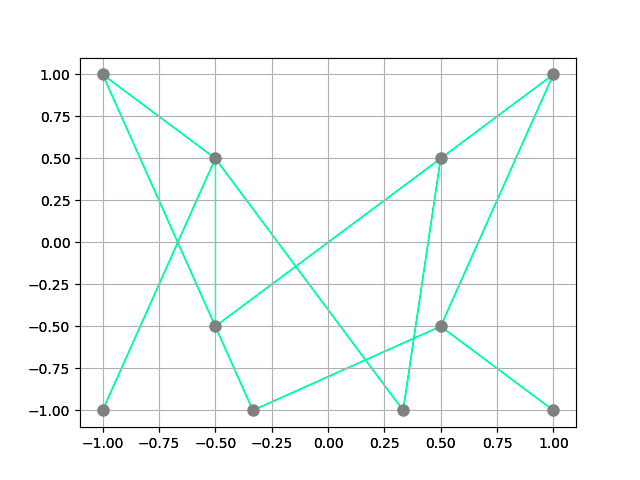
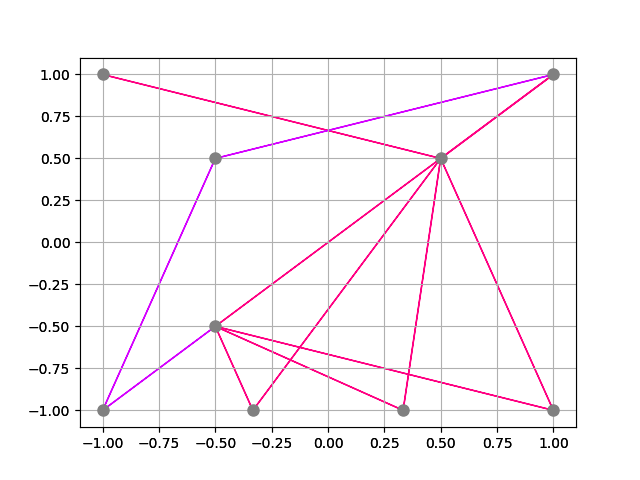
Add TODO for neuromodulation

diff --git a/pureples/des_hyperneat/des_hyperneat.py b/pureples/des_hyperneat/des_hyperneat.py
@@ -103,26 +103,29 @@ class DESNetwork:
         """
         Merge connections generated by a branch with the rest of the connections in a phenotype network.
         """
-        merged_cons = set()
-
-        if cons:
-            if new_cons:
-                for nc in new_cons:
-
-                    for c in cons:
-                        if c.x1 == nc.x1 and c.y1 == nc.y1 and c.x2 == nc.x2 and c.y2 == nc.y2:
-                            if abs(c.weight) < abs(nc.weight):
-                                for c_attr, nc_attr in zip([attr for attr in dir(c) if not attr.startswith("__")], [attr for attr in dir(nc) if not attr.startswith("__")]):
-                                    if c_attr not in ["x1", "x2", "y1", "y2"]:
-                                        merged_cons.add(nc)
-                        else:
-                            merged_cons.add(nc)
-                    return merged_cons
-                
-            else:
-                return cons
-        else:
+        if not cons:
             return new_cons
+        if not new_cons:
+            return cons
+
+        merged_cons = dict()  # keyed by (x1, y1, x2, y2) to enforce one connection per endpoint pair
+
+        # Index existing connections by their endpoint tuple
+        for c in cons:
+            key = (c.x1, c.y1, c.x2, c.y2)
+            merged_cons[key] = c
+
+        # Merge new connections, keeping the higher-weight one on collision
+        for nc in new_cons:
+            key = (nc.x1, nc.y1, nc.x2, nc.y2)
+            if key in merged_cons:
+                if abs(nc.weight) > abs(merged_cons[key].weight):
+                    merged_cons[key] = nc  # replace with higher-weight connection
+                # else: keep existing, discard nc
+            else:
+                merged_cons[key] = nc
+
+        return set(merged_cons.values())
             
 
     @staticmethod
@@ -386,32 +389,35 @@ class AdaptiveDESNetwork:
             draw_adaptive_des(coords_to_id, draw_connections, filename)
 
         # This is actually a feedforward network.
-        return neat.nn.AdaptiveRecurrentNetwork(input_nodes, output_nodes, node_evals)
+        return neat.nn.AdaptiveRecurrentNetwork(input_nodes, output_nodes, node_evals, self.max_weight)
 
     def merge_branch_outputs(self, cons, new_cons):
         """
         Merge connections generated by a branch with the rest of the connections in a phenotype network.
         """
-        merged_cons = set()
-
-        if cons:
-            if new_cons:
-                for nc in new_cons:
-
-                    for c in cons:
-                        if c.x1 == nc.x1 and c.y1 == nc.y1 and c.x2 == nc.x2 and c.y2 == nc.y2:
-                            if abs(c.weight) < abs(nc.weight):
-                                for c_attr, nc_attr in zip([attr for attr in dir(c) if not attr.startswith("__")], [attr for attr in dir(nc) if not attr.startswith("__")]):
-                                    if c_attr not in ["x1", "x2", "y1", "y2"]:
-                                        merged_cons.add(nc)
-                        else:
-                            merged_cons.add(nc)
-                    return merged_cons
-                
-            else:
-                return cons
-        else:
+        if not cons:
             return new_cons
+        if not new_cons:
+            return cons
+
+        merged_cons = dict()  # keyed by (x1, y1, x2, y2) to enforce one connection per endpoint pair
+
+        # Index existing connections by their endpoint tuple
+        for c in cons:
+            key = (c.x1, c.y1, c.x2, c.y2)
+            merged_cons[key] = c
+
+        # Merge new connections, keeping the higher-weight one on collision
+        for nc in new_cons:
+            key = (nc.x1, nc.y1, nc.x2, nc.y2)
+            if key in merged_cons:
+                if abs(nc.weight) > abs(merged_cons[key].weight):
+                    merged_cons[key] = nc  # replace with higher-weight connection
+                # else: keep existing, discard nc
+            else:
+                merged_cons[key] = nc
+
+        return set(merged_cons.values())
             
 
     @staticmethod

diff --git a/pureples/shared/visualize.py b/pureples/shared/visualize.py
@@ -128,6 +128,12 @@ def draw_adaptive_des(id_to_coords, connections, filename):
                   fc=(hue_to_rgb(c.n)[0], hue_to_rgb(c.n)[1], hue_to_rgb(c.n)[2]), 
                   ec=(hue_to_rgb(c.n)[0], hue_to_rgb(c.n)[1], hue_to_rgb(c.n)[2]), 
                   length_includes_head=True)
+        
+    # for c in connections:
+    #     plt.arrow(c.x1, c.y1, c.x2-c.x1, c.y2-c.y1, head_width=0.00, head_length=0.0,
+    #               fc=(hue_to_rgb(c.weight)[0], hue_to_rgb(c.weight)[1], hue_to_rgb(c.weight)[2]), 
+    #               ec=(hue_to_rgb(c.weight)[0], hue_to_rgb(c.weight)[1], hue_to_rgb(c.weight)[2]), 
+    #               length_includes_head=True)
 
     for (coord, _) in id_to_coords.items():
         plt.plot(coord[0], coord[1], marker='o', markersize=8.0, color='grey')

diff --git a/pureples/experiments/pole_balancing/adaptive_des_hyperneat_pole_balancing.py b/pureples/experiments/pole_balancing/adaptive_des_hyperneat_pole_balancing.py
@@ -13,7 +13,7 @@ from pureples.shared.gym_runner import run_adaptive_des
 from pureples.des_hyperneat import AdaptiveDESNetwork
 
 # S, M or L; Small, Medium or Large (logic implemented as "Not 'S' or 'M' then Large").
-VERSION = "S"
+VERSION = "M"
 VERSION_TEXT = "small" if VERSION == "S" else "medium" if VERSION == "M" else "large"
 
 # Network coordinates and the resulting substrate.

diff --git a/TODO.md b/TODO.md
@@ -1,0 +1,30 @@
+TODO:
+
+* Code neuromodulation
+    - there is one modulation output node in the CPPN that provides the geometric function of modulatory weights
+    - I need to add an output node to all CPPNs that is distinct from the branch nodes.
+    - All neurons in the phenotype ANN need to have a Mod activation attribute.
+    - The CPPN m node needs to be queried for all Mod connections, and they need to be stored in a set.
+    - The weight threshold should be applied to both modulatory connections and standard connections. Quadtree division and extraction and neuron/connection pruning need to consider modulatory and standard connection weights - if either type exists greater than the weight threshold, it passes.
+    - The phenotype network needs to be run at each timestep once with standard connections. Then each neuron needs to calculate its modulatory activation attribute based on all incoming modulatory connections and their presynaptic neurons' standard activations.
+    - Once run with Mod connections, the weights need to be updated following the generalized Hebb plasticity rule, and each weight update needs to be modulated by the mod activation of the postsynaptic neuron.
+
+    - each branch in the CPPN has a modulation output node
+    - a set of modulatory connections is produced for each branch
+    - all standard and modulatory connections have an attribute storing what # branch they were generated by
+    - neurons' standard activations are produced as normal using all standard connections
+    - each neuron has a list attribute storing the modulatory activations of each branch
+    - for each branch's modulatory connections: for each neuron, all incoming modulatory connections are used to calculate that branch's modulatory activation for that neuron.
+    - for each branch's standard connections, each connection's weight is updated using the generalized Hebb learning rule modulated by the connection's postsynaptic neuron's modulatory activation for the standard connection's branch.
+
+    - the substrate is divided for each branch based on standard connections' weights, not modulatory connections' weights. The modulatory connections (only those that pass the weight threshold in the first place) will exist in the phenotype ANN only between neurons that were produced from the standard connection weight CPPN output
+
+
+* Code task
+    - 
+
+* Code novelty search
+    - 
+
+
+6/11: 11:45 - 1:30